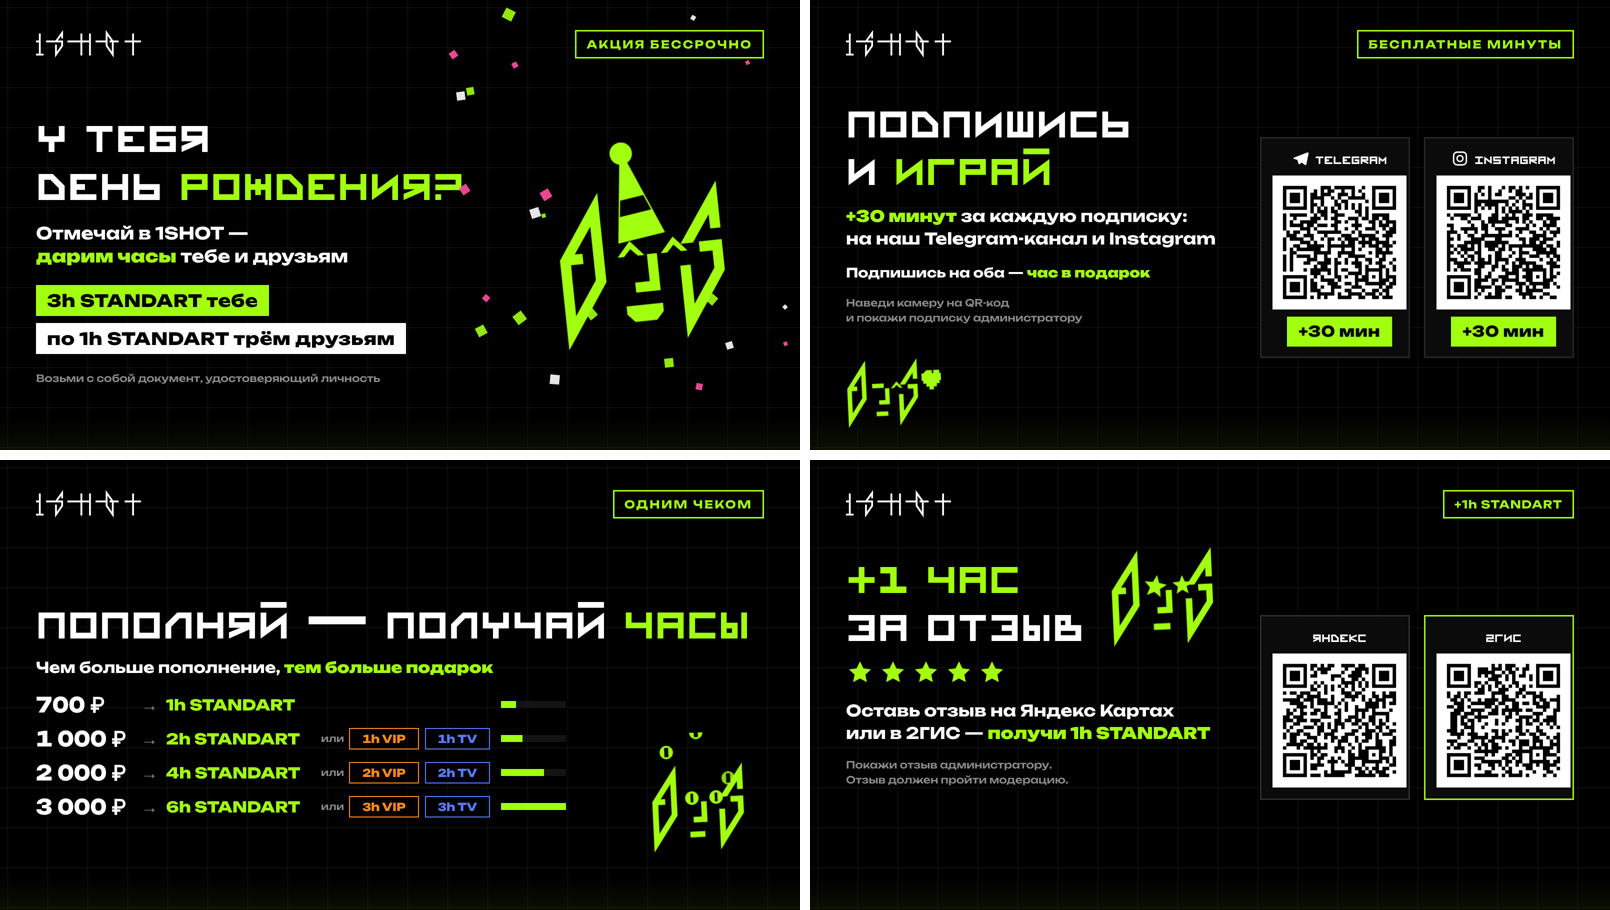
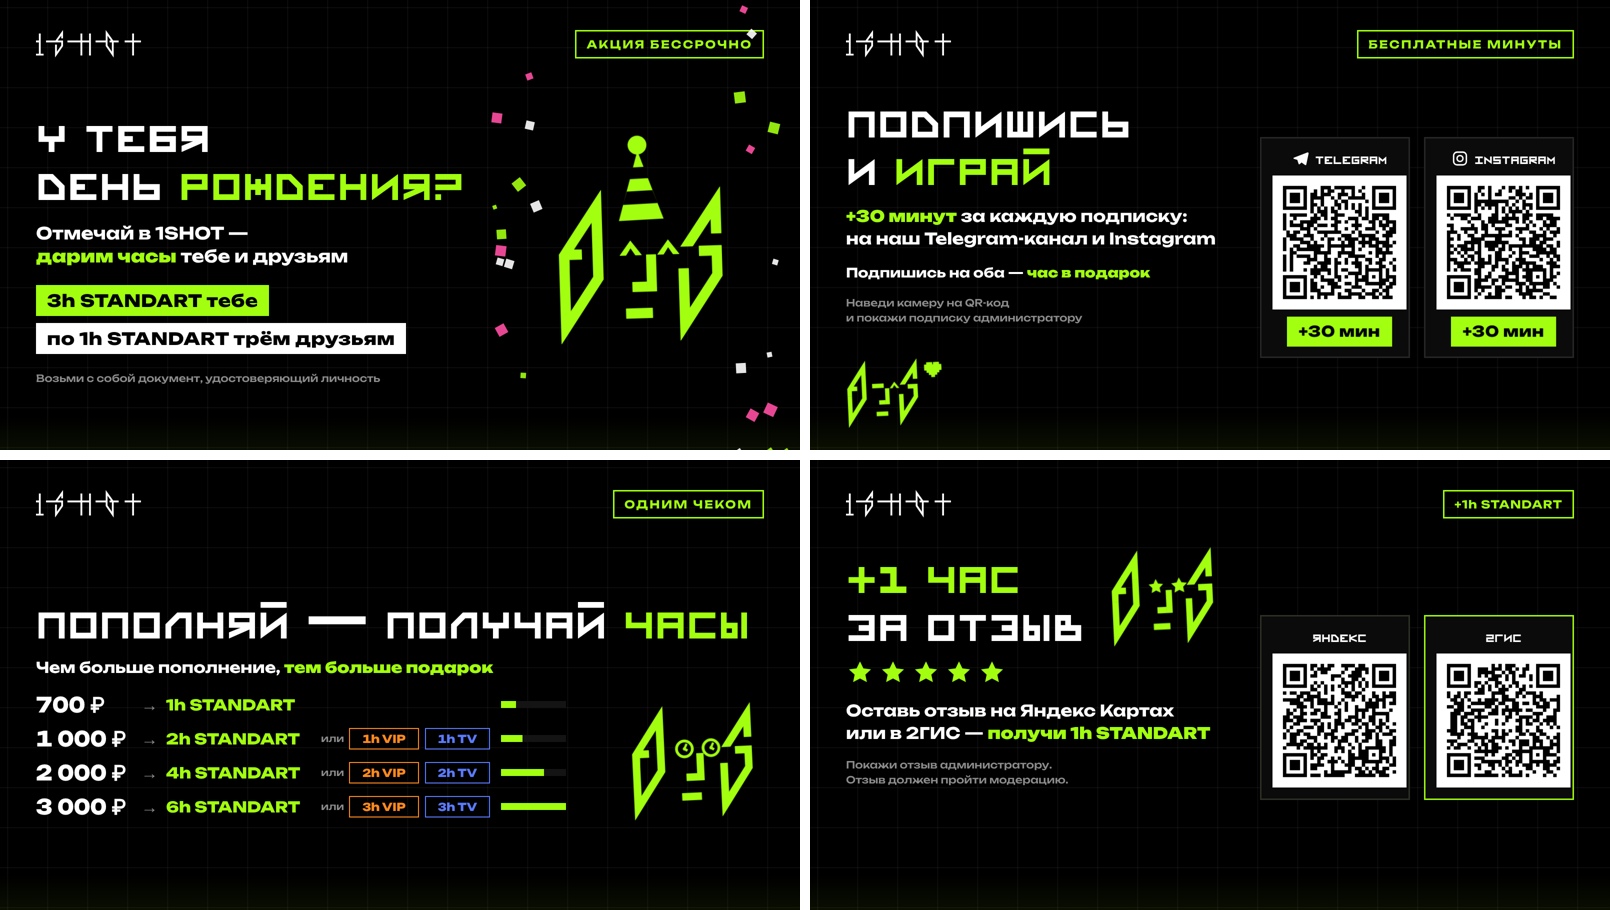
Gizmo news mascots redrawn with clear air: floating party hat, pixel heart, clock eyes for hours, upright star eyes; confetti stays off text and mascot
Claude-Session: https://claude.ai/code/session_01XRss1DxYjuHRCzBKe9a3a3

diff --git a/docs/gizmo-news/3-topup.html b/docs/gizmo-news/3-topup.html
@@ -19,19 +19,18 @@ body{display:grid;place-items:center;font-family:Unb,system-ui,sans-serif;color:
 .mascot{position:absolute;width:300px;animation:float 5s ease-in-out infinite}
 .mascot *{fill:var(--lime);stroke:var(--lime)}
 #eyeL,#eyeR{transform-box:fill-box;transform-origin:center;animation:blink 4.6s infinite}
-.m-party{animation:bounce 1.6s ease-in-out infinite}.m-party #eyeL,.m-party #eyeR{animation:none}
-@keyframes bounce{0%,100%{transform:translateY(0) rotate(-6deg)}50%{transform:translateY(-26px) rotate(4deg)}}
-.m-party .hat{transform-box:fill-box;transform-origin:bottom center;animation:hat 1.6s ease-in-out infinite}
-@keyframes hat{0%,100%{transform:rotate(-8deg)}50%{transform:rotate(8deg)}}
-.m-wink #eyeR{animation:none}.m-wink #eyeL{animation:blink 3s infinite}
-.m-wink .heart{transform-box:fill-box;transform-origin:center;animation:beat 1.2s ease-in-out infinite}
-@keyframes beat{0%,100%{transform:scale(1)}30%{transform:scale(1.35)}60%{transform:scale(.95)}}
-.m-money #eyeL,.m-money #eyeR{animation:spin 2.4s ease-in-out infinite}
-@keyframes spin{0%,70%,100%{transform:scaleX(1)}85%{transform:scaleX(.15)}}
-.m-money .coin{transform-box:fill-box;animation:drop 2.1s ease-in infinite}
-@keyframes drop{0%{transform:translateY(-10px);opacity:0}20%{opacity:1}80%{opacity:1}100%{transform:translateY(22px);opacity:0}}
-.m-stars #eyeL,.m-stars #eyeR{animation:twinkle 1.4s ease-in-out infinite}.m-stars #eyeR{animation-delay:.35s}
-@keyframes twinkle{0%,100%{transform:scale(1) rotate(0)}50%{transform:scale(1.25) rotate(18deg)}}
+.m-party{animation:bounce 1.8s ease-in-out infinite}.m-party #eyeL,.m-party #eyeR{animation:none}
+@keyframes bounce{0%,100%{transform:translateY(0) rotate(-4deg)}50%{transform:translateY(-20px) rotate(2deg)}}
+.m-party .hat{transform-box:fill-box;transform-origin:50% 100%;animation:hat 1.8s ease-in-out infinite}
+@keyframes hat{0%,100%{transform:rotate(-6deg)}50%{transform:rotate(6deg)}}
+.m-wink #eyeR{animation:none}
+.m-wink .heart{transform-box:fill-box;transform-origin:center;animation:beat 1.3s ease-in-out infinite}
+@keyframes beat{0%,100%{transform:scale(1)}25%{transform:scale(1.22)}45%{transform:scale(.96)}60%{transform:scale(1.1)}}
+.m-clock #eyeL,.m-clock #eyeR{animation:none}
+.m-clock .minute{animation:turn 3s linear infinite}.m-clock .hour{animation:turn 36s linear infinite -9s}  /* the hour hand starts at three o'clock */
+@keyframes turn{to{transform:rotate(360deg)}}
+.m-stars #eyeL,.m-stars #eyeR{transform-box:fill-box;transform-origin:center;animation:twinkle 1.6s ease-in-out infinite}.m-stars #eyeR{animation-delay:.4s}
+@keyframes twinkle{0%,100%{transform:scale(1)}50%{transform:scale(1.18)}}
 @keyframes float{0%,100%{transform:translateY(0) rotate(-6deg)}50%{transform:translateY(-18px) rotate(-2deg)}}
 @keyframes blink{0%,92%,100%{transform:scaleY(1)}95%{transform:scaleY(.1)}}
 h1{font:700 104px/.92 ReSquare,Unb,sans-serif;text-transform:uppercase;letter-spacing:.01em}
@@ -61,7 +60,7 @@ h1 .lime{color:var(--lime)}
 .bar{height:14px;background:#141414}
 .bar i{display:block;height:100%;width:var(--w);background:var(--lime);animation:grow 1.2s cubic-bezier(.2,.9,.25,1) both}
 @keyframes grow{from{width:0}}
-.mascot{right:110px;top:560px;width:190px}
+.mascot{right:90px;top:500px;width:250px}
 .notes{display:flex;gap:40px;flex-wrap:wrap}
 </style></head><body>
 <div class="stage"><div class="grid"></div><div class="scan"></div><svg class="logo" aria-hidden="true" viewBox="0 0 522 138"><path fill-rule="evenodd" d="M478.042 17.5467V52.4814H440.879V61.4825H478.042V127.032H487.105V61.4825H521.737V52.478H487.105V17.5502L478.042 17.5467ZM97.1209 52.4814H50.0112V61.4825H125.311V77.1869L103.824 108.092V72.4431H94.7577V136.975L134.371 79.9952V52.4814H108.213L125.307 28.397V41.7347H134.371V0.00345001L97.1209 52.478V52.4814ZM263.77 52.4814H230.108V17.5502H221.045V52.4814H156.306V61.4825H221.045V127.032H230.108V61.4825H263.77V127.032H272.829V17.5536H263.773V52.4849L263.77 52.4814ZM346.594 0L346.58 52.4814H296.165V61.4859H346.58L346.573 79.3259L386.283 137.11V61.4859H410.954V52.4814H383.823L346.594 0ZM355.64 76.5486L355.65 28.397L372.735 52.4814H365.814V61.4859H377.22V107.957L355.64 76.5486ZM14.3692 17.5502V52.4814H0V61.4859H14.3692V118.031H0V127.036H37.7982V118.031H23.4324V17.5536H14.3692V17.5502Z"/></svg><div class="tag">Одним чеком</div>
@@ -69,7 +68,7 @@ h1 .lime{color:var(--lime)}
  <h1><span class="w">Пополняй</span> <span class="w">—</span> <span class="w">получай</span> <span class="w lime">часы</span></h1>
  <p class="sub in" style="animation-delay:.5s">Чем больше пополнение, <b>тем больше подарок</b></p>
  <div class="rows"><div class="row" style="animation-delay:0.7s"><span class="sum">700 ₽</span><span class="arrow">→</span><span class="hrs">1h STANDART</span><span class="alt"></span><span class="bar"><i style="--w:23%;animation-delay:1.0s"></i></span></div><div class="row" style="animation-delay:0.95s"><span class="sum">1 000 ₽</span><span class="arrow">→</span><span class="hrs">2h STANDART</span><span class="alt"><i>или</i><b class="vip">1h VIP</b><b class="tv">1h TV</b></span><span class="bar"><i style="--w:33%;animation-delay:1.25s"></i></span></div><div class="row" style="animation-delay:1.2s"><span class="sum">2 000 ₽</span><span class="arrow">→</span><span class="hrs">4h STANDART</span><span class="alt"><i>или</i><b class="vip">2h VIP</b><b class="tv">2h TV</b></span><span class="bar"><i style="--w:66%;animation-delay:1.5s"></i></span></div><div class="row" style="animation-delay:1.45s"><span class="sum">3 000 ₽</span><span class="arrow">→</span><span class="hrs">6h STANDART</span><span class="alt"><i>или</i><b class="vip">3h VIP</b><b class="tv">3h TV</b></span><span class="bar"><i style="--w:100%;animation-delay:1.75s"></i></span></div></div>
- </div><svg viewBox="-1 -16 47 60" class="mascot m-money" aria-hidden="true">
+ </div><svg viewBox="-1 -1 47 45" class="mascot m-clock" aria-hidden="true">
 
 <g id="mascot" stroke="currentColor" stroke-width="0.12" stroke-linejoin="miter">
   
@@ -86,15 +85,15 @@ h1 .lime{color:var(--lime)}
     <polygon id="noseFoot" points="24.1044,25.6707 20.0552,25.6707 20.0552,28.3446 24.1044,28.3446 24.1044,25.6707"/>
   </g>
   
-  <g id="eyeL" class="eye"><circle cx="19.6" cy="16.3" r="3.3"/><rect x="19.0" y="14.2" width="1.2" height="4.2" style="fill:#000;stroke:#000"/></g>
+  <g id="eyeL" class="eye"><circle cx="19.7" cy="16.3" r="3.45"/><circle cx="19.7" cy="16.3" r="2.4" style="fill:#000;stroke:#000"/><rect x="19.279999999999998" y="15.05" width=".84" height="1.25" style="transform-box:view-box;transform-origin:19.7px 16.3px" class="hour"/><rect x="19.34" y="14.3" width=".72" height="2" style="transform-box:view-box;transform-origin:19.7px 16.3px" class="minute"/><circle cx="19.7" cy="16.3" r=".55"/></g>
   
-  <g id="eyeR" class="eye"><circle cx="31.6" cy="16.3" r="3.3"/><rect x="31.0" y="14.2" width="1.2" height="4.2" style="fill:#000;stroke:#000"/></g>
+  <g id="eyeR" class="eye"><circle cx="29.7" cy="16.3" r="3.45"/><circle cx="29.7" cy="16.3" r="2.4" style="fill:#000;stroke:#000"/><rect x="29.279999999999998" y="15.05" width=".84" height="1.25" style="transform-box:view-box;transform-origin:29.7px 16.3px" class="hour"/><rect x="29.34" y="14.3" width=".72" height="2" style="transform-box:view-box;transform-origin:29.7px 16.3px" class="minute"/><circle cx="29.7" cy="16.3" r=".55"/></g>
   
   <g id="mouth">
     <polygon id="mouth" points="25.4032,32.9495 20.4105,32.9495 19.5,32.9495 18.0918,32.9495 18.0918,35.6616 22.7292,35.6616 25.4032,35.6616 25.4032,32.9495"/>
   </g>
 </g>
-<g class="coin" style="animation-delay:0s"><circle cx="8" cy="-8" r="2.8"/><rect x="7.5" y="-9.8" width="1" height="3.6" style="fill:#000;stroke:#000"/></g><g class="coin" style="animation-delay:0.7s"><circle cx="23" cy="-8" r="2.8"/><rect x="22.5" y="-9.8" width="1" height="3.6" style="fill:#000;stroke:#000"/></g><g class="coin" style="animation-delay:1.4s"><circle cx="38" cy="-8" r="2.8"/><rect x="37.5" y="-9.8" width="1" height="3.6" style="fill:#000;stroke:#000"/></g></svg></div><script>
+</svg></div><script>
 // Fit the 1600x900 stage into whatever frame Gizmo gives the news item.
 const stage=document.querySelector('.stage');
 const fit=()=>{const k=Math.min(innerWidth/1600,innerHeight/900);stage.style.transform=`scale(${k})`};

diff --git a/docs/gizmo-news/1-birthday.html b/docs/gizmo-news/1-birthday.html
@@ -19,19 +19,18 @@ body{display:grid;place-items:center;font-family:Unb,system-ui,sans-serif;color:
 .mascot{position:absolute;width:300px;animation:float 5s ease-in-out infinite}
 .mascot *{fill:var(--lime);stroke:var(--lime)}
 #eyeL,#eyeR{transform-box:fill-box;transform-origin:center;animation:blink 4.6s infinite}
-.m-party{animation:bounce 1.6s ease-in-out infinite}.m-party #eyeL,.m-party #eyeR{animation:none}
-@keyframes bounce{0%,100%{transform:translateY(0) rotate(-6deg)}50%{transform:translateY(-26px) rotate(4deg)}}
-.m-party .hat{transform-box:fill-box;transform-origin:bottom center;animation:hat 1.6s ease-in-out infinite}
-@keyframes hat{0%,100%{transform:rotate(-8deg)}50%{transform:rotate(8deg)}}
-.m-wink #eyeR{animation:none}.m-wink #eyeL{animation:blink 3s infinite}
-.m-wink .heart{transform-box:fill-box;transform-origin:center;animation:beat 1.2s ease-in-out infinite}
-@keyframes beat{0%,100%{transform:scale(1)}30%{transform:scale(1.35)}60%{transform:scale(.95)}}
-.m-money #eyeL,.m-money #eyeR{animation:spin 2.4s ease-in-out infinite}
-@keyframes spin{0%,70%,100%{transform:scaleX(1)}85%{transform:scaleX(.15)}}
-.m-money .coin{transform-box:fill-box;animation:drop 2.1s ease-in infinite}
-@keyframes drop{0%{transform:translateY(-10px);opacity:0}20%{opacity:1}80%{opacity:1}100%{transform:translateY(22px);opacity:0}}
-.m-stars #eyeL,.m-stars #eyeR{animation:twinkle 1.4s ease-in-out infinite}.m-stars #eyeR{animation-delay:.35s}
-@keyframes twinkle{0%,100%{transform:scale(1) rotate(0)}50%{transform:scale(1.25) rotate(18deg)}}
+.m-party{animation:bounce 1.8s ease-in-out infinite}.m-party #eyeL,.m-party #eyeR{animation:none}
+@keyframes bounce{0%,100%{transform:translateY(0) rotate(-4deg)}50%{transform:translateY(-20px) rotate(2deg)}}
+.m-party .hat{transform-box:fill-box;transform-origin:50% 100%;animation:hat 1.8s ease-in-out infinite}
+@keyframes hat{0%,100%{transform:rotate(-6deg)}50%{transform:rotate(6deg)}}
+.m-wink #eyeR{animation:none}
+.m-wink .heart{transform-box:fill-box;transform-origin:center;animation:beat 1.3s ease-in-out infinite}
+@keyframes beat{0%,100%{transform:scale(1)}25%{transform:scale(1.22)}45%{transform:scale(.96)}60%{transform:scale(1.1)}}
+.m-clock #eyeL,.m-clock #eyeR{animation:none}
+.m-clock .minute{animation:turn 3s linear infinite}.m-clock .hour{animation:turn 36s linear infinite -9s}  /* the hour hand starts at three o'clock */
+@keyframes turn{to{transform:rotate(360deg)}}
+.m-stars #eyeL,.m-stars #eyeR{transform-box:fill-box;transform-origin:center;animation:twinkle 1.6s ease-in-out infinite}.m-stars #eyeR{animation-delay:.4s}
+@keyframes twinkle{0%,100%{transform:scale(1)}50%{transform:scale(1.18)}}
 @keyframes float{0%,100%{transform:translateY(0) rotate(-6deg)}50%{transform:translateY(-18px) rotate(-2deg)}}
 @keyframes blink{0%,92%,100%{transform:scaleY(1)}95%{transform:scaleY(.1)}}
 h1{font:700 104px/.92 ReSquare,Unb,sans-serif;text-transform:uppercase;letter-spacing:.01em}
@@ -62,7 +61,7 @@ h1 .lime{color:var(--lime)}
  <p class="big in" style="animation-delay:.9s">Отмечай в 1SHOT —<br><b>дарим часы</b> тебе и друзьям</p>
  <div class="gift in" style="animation-delay:1.2s"><span class="pill">3h STANDART тебе</span><span class="pill" style="background:#fff">по 1h STANDART трём друзьям</span></div>
  <p class="note in" style="animation-delay:1.5s">Возьми с собой документ, удостоверяющий личность</p>
-</div><svg viewBox="-1 -15 47 59" class="mascot m-party" aria-hidden="true">
+</div><svg viewBox="-1 -16 47 60" class="mascot m-party" aria-hidden="true">
 
 <g id="mascot" stroke="currentColor" stroke-width="0.12" stroke-linejoin="miter">
   
@@ -79,13 +78,15 @@ h1 .lime{color:var(--lime)}
     <polygon id="noseFoot" points="24.1044,25.6707 20.0552,25.6707 20.0552,28.3446 24.1044,28.3446 24.1044,25.6707"/>
   </g>
   
-  <g id="eyeL" class="eye"><polygon points="16.0,18.2 19.6,14.1 23.200000000000003,18.2 21.5,18.2 19.6,16.2 17.700000000000003,18.2"/></g>
+  <g id="eyeL" class="eye"><polygon points="16.8,18.2 19.8,14.2 22.8,18.2 21.1,18.2 19.8,16.2 18.5,18.2"/></g>
   
-  <g id="eyeR" class="eye"><polygon points="28.0,18.2 31.6,14.1 35.2,18.2 33.5,18.2 31.6,16.2 29.700000000000003,18.2"/></g>
+  <g id="eyeR" class="eye"><polygon points="27.2,18.2 30.2,14.2 33.2,18.2 31.500000000000004,18.2 30.2,16.2 28.9,18.2"/></g>
   
-  <g id="mouth"><polygon points="17,32 27,32 27,34.2 25,36.4 19,36.4 17,34.2"/></g>
+  <g id="mouth">
+    <polygon id="mouth" points="25.4032,32.9495 20.4105,32.9495 19.5,32.9495 18.0918,32.9495 18.0918,35.6616 22.7292,35.6616 25.4032,35.6616 25.4032,32.9495"/>
+  </g>
 </g>
-<g class="hat"><polygon points="17,13 29,13 23,-10"/><polygon points="19.2,6 26.8,6 25.9,2.6 20.1,2.6" style="fill:#000;stroke:#000"/><circle cx="23" cy="-10.5" r="2.6"/></g></svg><div id="confetti"></div></div><script>
+<g class="hat"><polygon points="17.5,8 28.5,8 23,-9"/><polygon points="18.9,3.6 27.1,3.6 26.2,1 19.8,1" style="fill:#000;stroke:#000"/><polygon points="21.1,-3.4 24.9,-3.4 24.2,-5.6 21.8,-5.6" style="fill:#000;stroke:#000"/><circle cx="23" cy="-12.2" r="2.1"/></g></svg><div id="confetti"></div></div><script>
 // Fit the 1600x900 stage into whatever frame Gizmo gives the news item.
 const stage=document.querySelector('.stage');
 const fit=()=>{const k=Math.min(innerWidth/1600,innerHeight/900);stage.style.transform=`scale(${k})`};
@@ -95,6 +96,6 @@ document.querySelectorAll('h1').forEach(h=>{let i=0;h.querySelectorAll('.w').for
 </script><script>
 // Pixel confetti: lime, white and pink squares falling behind the mascot.
 const box=document.getElementById('confetti');const colors=['#a3ff10','#ffffff','#ff4fa3'];
-for(let i=0;i<26;i++){const p=document.createElement('i');p.className='pix';p.style.left=(52+Math.random()*46)+'%';p.style.background=colors[i%3];
+for(let i=0;i<26;i++){const p=document.createElement('i');p.className='pix';p.style.left=(i%2?91+Math.random()*7:61+Math.random()*6)+'%';p.style.background=colors[i%3];
  const s=8+Math.random()*14;p.style.width=p.style.height=s+'px';p.style.animationDuration=(5+Math.random()*6)+'s';p.style.animationDelay=(-Math.random()*10)+'s';box.append(p)}
 </script></body></html>

diff --git a/docs/gizmo-news/2-subscribe.html b/docs/gizmo-news/2-subscribe.html
@@ -19,19 +19,18 @@ body{display:grid;place-items:center;font-family:Unb,system-ui,sans-serif;color:
 .mascot{position:absolute;width:300px;animation:float 5s ease-in-out infinite}
 .mascot *{fill:var(--lime);stroke:var(--lime)}
 #eyeL,#eyeR{transform-box:fill-box;transform-origin:center;animation:blink 4.6s infinite}
-.m-party{animation:bounce 1.6s ease-in-out infinite}.m-party #eyeL,.m-party #eyeR{animation:none}
-@keyframes bounce{0%,100%{transform:translateY(0) rotate(-6deg)}50%{transform:translateY(-26px) rotate(4deg)}}
-.m-party .hat{transform-box:fill-box;transform-origin:bottom center;animation:hat 1.6s ease-in-out infinite}
-@keyframes hat{0%,100%{transform:rotate(-8deg)}50%{transform:rotate(8deg)}}
-.m-wink #eyeR{animation:none}.m-wink #eyeL{animation:blink 3s infinite}
-.m-wink .heart{transform-box:fill-box;transform-origin:center;animation:beat 1.2s ease-in-out infinite}
-@keyframes beat{0%,100%{transform:scale(1)}30%{transform:scale(1.35)}60%{transform:scale(.95)}}
-.m-money #eyeL,.m-money #eyeR{animation:spin 2.4s ease-in-out infinite}
-@keyframes spin{0%,70%,100%{transform:scaleX(1)}85%{transform:scaleX(.15)}}
-.m-money .coin{transform-box:fill-box;animation:drop 2.1s ease-in infinite}
-@keyframes drop{0%{transform:translateY(-10px);opacity:0}20%{opacity:1}80%{opacity:1}100%{transform:translateY(22px);opacity:0}}
-.m-stars #eyeL,.m-stars #eyeR{animation:twinkle 1.4s ease-in-out infinite}.m-stars #eyeR{animation-delay:.35s}
-@keyframes twinkle{0%,100%{transform:scale(1) rotate(0)}50%{transform:scale(1.25) rotate(18deg)}}
+.m-party{animation:bounce 1.8s ease-in-out infinite}.m-party #eyeL,.m-party #eyeR{animation:none}
+@keyframes bounce{0%,100%{transform:translateY(0) rotate(-4deg)}50%{transform:translateY(-20px) rotate(2deg)}}
+.m-party .hat{transform-box:fill-box;transform-origin:50% 100%;animation:hat 1.8s ease-in-out infinite}
+@keyframes hat{0%,100%{transform:rotate(-6deg)}50%{transform:rotate(6deg)}}
+.m-wink #eyeR{animation:none}
+.m-wink .heart{transform-box:fill-box;transform-origin:center;animation:beat 1.3s ease-in-out infinite}
+@keyframes beat{0%,100%{transform:scale(1)}25%{transform:scale(1.22)}45%{transform:scale(.96)}60%{transform:scale(1.1)}}
+.m-clock #eyeL,.m-clock #eyeR{animation:none}
+.m-clock .minute{animation:turn 3s linear infinite}.m-clock .hour{animation:turn 36s linear infinite -9s}  /* the hour hand starts at three o'clock */
+@keyframes turn{to{transform:rotate(360deg)}}
+.m-stars #eyeL,.m-stars #eyeR{transform-box:fill-box;transform-origin:center;animation:twinkle 1.6s ease-in-out infinite}.m-stars #eyeR{animation-delay:.4s}
+@keyframes twinkle{0%,100%{transform:scale(1)}50%{transform:scale(1.18)}}
 @keyframes float{0%,100%{transform:translateY(0) rotate(-6deg)}50%{transform:translateY(-18px) rotate(-2deg)}}
 @keyframes blink{0%,92%,100%{transform:scaleY(1)}95%{transform:scaleY(.1)}}
 h1{font:700 104px/.92 ReSquare,Unb,sans-serif;text-transform:uppercase;letter-spacing:.01em}
@@ -86,17 +85,17 @@ h1 .lime{color:var(--lime)}
     <polygon id="noseFoot" points="24.1044,25.6707 20.0552,25.6707 20.0552,28.3446 24.1044,28.3446 24.1044,25.6707"/>
   </g>
   
-  <g id="eyeL">
+  <g id="eyeL" class="eye">
     <polygon id="eyeL" points="23.3114,15 18.3187,15 17.4082,15 16,15 16,17.7122 20.6374,17.7122 23.3114,17.7122 23.3114,15"/>
   </g>
   
-  <g id="eyeR" class="eye"><polygon points="28.0,18.2 31.6,14.1 35.2,18.2 33.5,18.2 31.6,16.2 29.700000000000003,18.2"/></g>
+  <g id="eyeR" class="eye"><polygon points="27.2,18.2 30.2,14.2 33.2,18.2 31.500000000000004,18.2 30.2,16.2 28.9,18.2"/></g>
   
   <g id="mouth">
     <polygon id="mouth" points="25.4032,32.9495 20.4105,32.9495 19.5,32.9495 18.0918,32.9495 18.0918,35.6616 22.7292,35.6616 25.4032,35.6616 25.4032,32.9495"/>
   </g>
 </g>
-<g class="heart"><path d="M51 8h3v2h2V8h3v2h1v4h-1v2h-2v2h-2v2h-2v-2h-2v-2h-2v-2h-1v-4h1z"/></g></svg></div><script>
+<g class="heart"><rect x="51.5" y="3.0" width="1.52" height="1.52"/><rect x="53.0" y="3.0" width="1.52" height="1.52"/><rect x="56.0" y="3.0" width="1.52" height="1.52"/><rect x="57.5" y="3.0" width="1.52" height="1.52"/><rect x="50.0" y="4.5" width="1.52" height="1.52"/><rect x="51.5" y="4.5" width="1.52" height="1.52"/><rect x="53.0" y="4.5" width="1.52" height="1.52"/><rect x="54.5" y="4.5" width="1.52" height="1.52"/><rect x="56.0" y="4.5" width="1.52" height="1.52"/><rect x="57.5" y="4.5" width="1.52" height="1.52"/><rect x="59.0" y="4.5" width="1.52" height="1.52"/><rect x="50.0" y="6.0" width="1.52" height="1.52"/><rect x="51.5" y="6.0" width="1.52" height="1.52"/><rect x="53.0" y="6.0" width="1.52" height="1.52"/><rect x="54.5" y="6.0" width="1.52" height="1.52"/><rect x="56.0" y="6.0" width="1.52" height="1.52"/><rect x="57.5" y="6.0" width="1.52" height="1.52"/><rect x="59.0" y="6.0" width="1.52" height="1.52"/><rect x="51.5" y="7.5" width="1.52" height="1.52"/><rect x="53.0" y="7.5" width="1.52" height="1.52"/><rect x="54.5" y="7.5" width="1.52" height="1.52"/><rect x="56.0" y="7.5" width="1.52" height="1.52"/><rect x="57.5" y="7.5" width="1.52" height="1.52"/><rect x="53.0" y="9.0" width="1.52" height="1.52"/><rect x="54.5" y="9.0" width="1.52" height="1.52"/><rect x="56.0" y="9.0" width="1.52" height="1.52"/><rect x="54.5" y="10.5" width="1.52" height="1.52"/></g></svg></div><script>
 // Fit the 1600x900 stage into whatever frame Gizmo gives the news item.
 const stage=document.querySelector('.stage');
 const fit=()=>{const k=Math.min(innerWidth/1600,innerHeight/900);stage.style.transform=`scale(${k})`};

diff --git a/docs/gizmo-news/4-review.html b/docs/gizmo-news/4-review.html
@@ -19,19 +19,18 @@ body{display:grid;place-items:center;font-family:Unb,system-ui,sans-serif;color:
 .mascot{position:absolute;width:300px;animation:float 5s ease-in-out infinite}
 .mascot *{fill:var(--lime);stroke:var(--lime)}
 #eyeL,#eyeR{transform-box:fill-box;transform-origin:center;animation:blink 4.6s infinite}
-.m-party{animation:bounce 1.6s ease-in-out infinite}.m-party #eyeL,.m-party #eyeR{animation:none}
-@keyframes bounce{0%,100%{transform:translateY(0) rotate(-6deg)}50%{transform:translateY(-26px) rotate(4deg)}}
-.m-party .hat{transform-box:fill-box;transform-origin:bottom center;animation:hat 1.6s ease-in-out infinite}
-@keyframes hat{0%,100%{transform:rotate(-8deg)}50%{transform:rotate(8deg)}}
-.m-wink #eyeR{animation:none}.m-wink #eyeL{animation:blink 3s infinite}
-.m-wink .heart{transform-box:fill-box;transform-origin:center;animation:beat 1.2s ease-in-out infinite}
-@keyframes beat{0%,100%{transform:scale(1)}30%{transform:scale(1.35)}60%{transform:scale(.95)}}
-.m-money #eyeL,.m-money #eyeR{animation:spin 2.4s ease-in-out infinite}
-@keyframes spin{0%,70%,100%{transform:scaleX(1)}85%{transform:scaleX(.15)}}
-.m-money .coin{transform-box:fill-box;animation:drop 2.1s ease-in infinite}
-@keyframes drop{0%{transform:translateY(-10px);opacity:0}20%{opacity:1}80%{opacity:1}100%{transform:translateY(22px);opacity:0}}
-.m-stars #eyeL,.m-stars #eyeR{animation:twinkle 1.4s ease-in-out infinite}.m-stars #eyeR{animation-delay:.35s}
-@keyframes twinkle{0%,100%{transform:scale(1) rotate(0)}50%{transform:scale(1.25) rotate(18deg)}}
+.m-party{animation:bounce 1.8s ease-in-out infinite}.m-party #eyeL,.m-party #eyeR{animation:none}
+@keyframes bounce{0%,100%{transform:translateY(0) rotate(-4deg)}50%{transform:translateY(-20px) rotate(2deg)}}
+.m-party .hat{transform-box:fill-box;transform-origin:50% 100%;animation:hat 1.8s ease-in-out infinite}
+@keyframes hat{0%,100%{transform:rotate(-6deg)}50%{transform:rotate(6deg)}}
+.m-wink #eyeR{animation:none}
+.m-wink .heart{transform-box:fill-box;transform-origin:center;animation:beat 1.3s ease-in-out infinite}
+@keyframes beat{0%,100%{transform:scale(1)}25%{transform:scale(1.22)}45%{transform:scale(.96)}60%{transform:scale(1.1)}}
+.m-clock #eyeL,.m-clock #eyeR{animation:none}
+.m-clock .minute{animation:turn 3s linear infinite}.m-clock .hour{animation:turn 36s linear infinite -9s}  /* the hour hand starts at three o'clock */
+@keyframes turn{to{transform:rotate(360deg)}}
+.m-stars #eyeL,.m-stars #eyeR{transform-box:fill-box;transform-origin:center;animation:twinkle 1.6s ease-in-out infinite}.m-stars #eyeR{animation-delay:.4s}
+@keyframes twinkle{0%,100%{transform:scale(1)}50%{transform:scale(1.18)}}
 @keyframes float{0%,100%{transform:translateY(0) rotate(-6deg)}50%{transform:translateY(-18px) rotate(-2deg)}}
 @keyframes blink{0%,92%,100%{transform:scaleY(1)}95%{transform:scaleY(.1)}}
 h1{font:700 104px/.92 ReSquare,Unb,sans-serif;text-transform:uppercase;letter-spacing:.01em}
@@ -88,9 +87,9 @@ h1 .lime{color:var(--lime)}
     <polygon id="noseFoot" points="24.1044,25.6707 20.0552,25.6707 20.0552,28.3446 24.1044,28.3446 24.1044,25.6707"/>
   </g>
   
-  <g id="eyeL" class="eye"><polygon points="19.60,11.90 20.76,14.70 23.78,14.94 21.48,16.91 22.19,19.86 19.60,18.28 17.01,19.86 17.72,16.91 15.42,14.94 18.44,14.70"/></g>
+  <g id="eyeL" class="eye"><polygon points="19.80,13.10 20.77,15.07 22.94,15.38 21.37,16.91 21.74,19.07 19.80,18.05 17.86,19.07 18.23,16.91 16.66,15.38 18.83,15.07"/></g>
   
-  <g id="eyeR" class="eye"><polygon points="31.60,11.90 32.76,14.70 35.78,14.94 33.48,16.91 34.19,19.86 31.60,18.28 29.01,19.86 29.72,16.91 27.42,14.94 30.44,14.70"/></g>
+  <g id="eyeR" class="eye"><polygon points="30.20,13.10 31.17,15.07 33.34,15.38 31.77,16.91 32.14,19.07 30.20,18.05 28.26,19.07 28.63,16.91 27.06,15.38 29.23,15.07"/></g>
   
   <g id="mouth">
     <polygon id="mouth" points="25.4032,32.9495 20.4105,32.9495 19.5,32.9495 18.0918,32.9495 18.0918,35.6616 22.7292,35.6616 25.4032,35.6616 25.4032,32.9495"/>
